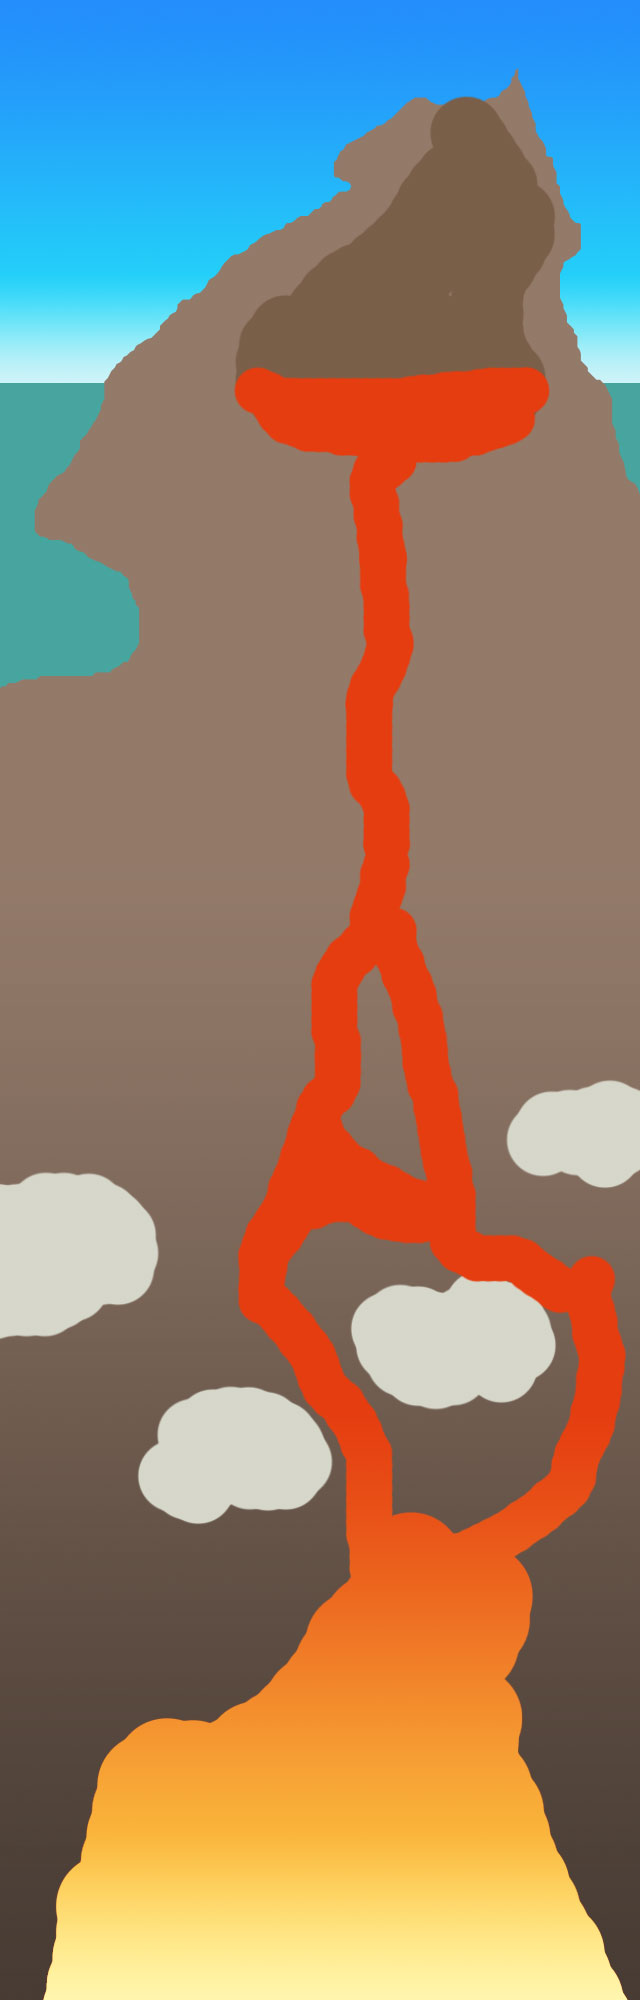
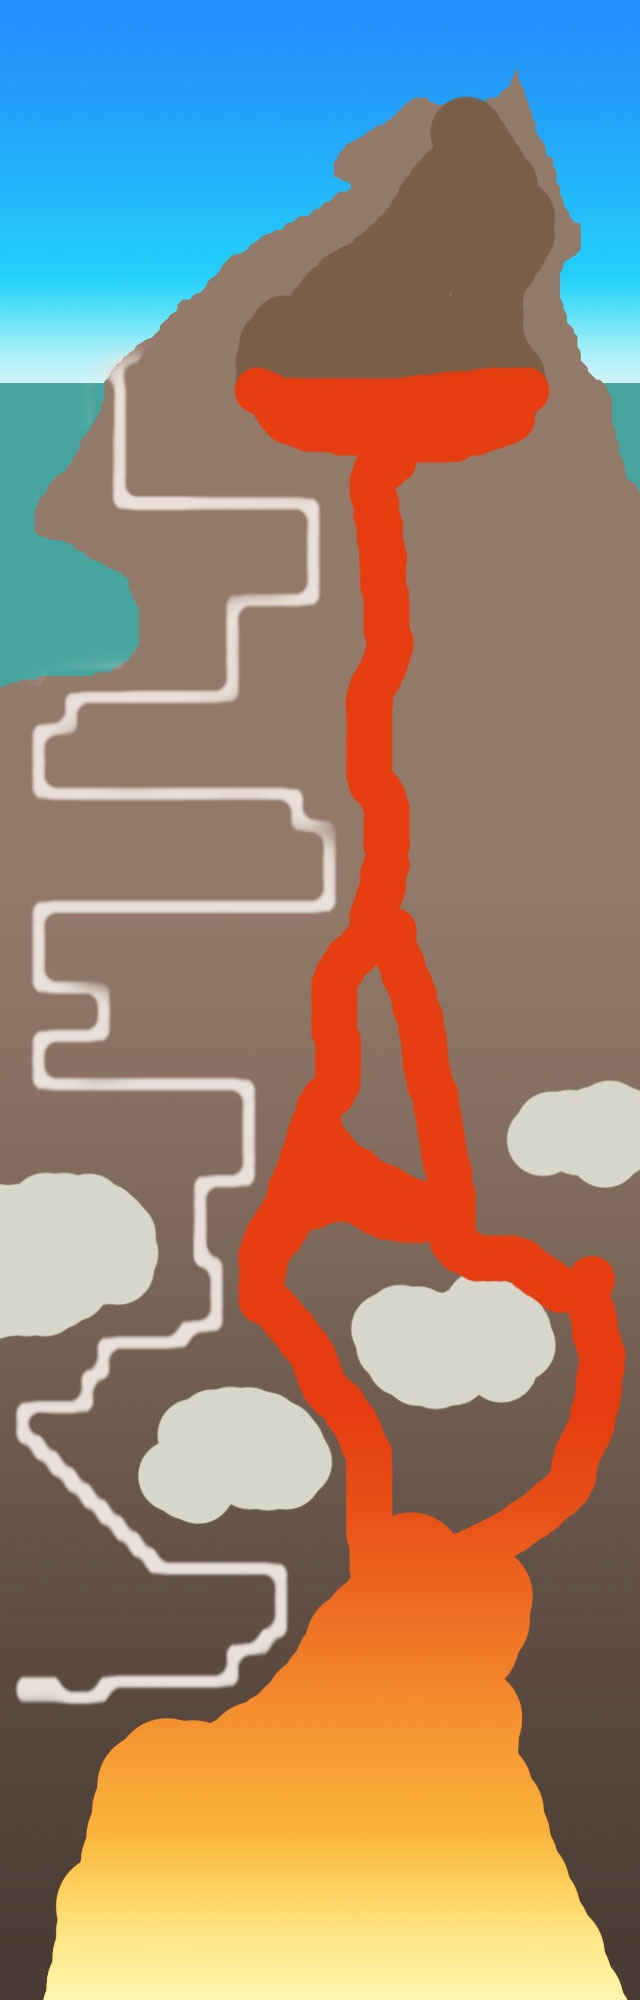
Hmm.. thinking about giving up on this one

diff --git a/ld25_villian/web/lair_game.dart b/ld25_villian/web/lair_game.dart
@@ -32,9 +32,12 @@ class LairGame {
   CanvasElement gameMapCanvas;
   ImageElement backgroundImg;
   ImageElement agentImg;
+  ImageElement conduitImg;
+  
   MiniMap minimap;
   
-  List<MapTile> worldMap; 
+  List<MapTile> worldMap;
+  List<Point> roomLocs;
   num nextAgentSpawn;
   
   // Mouse pos
@@ -58,7 +61,7 @@ class LairGame {
 //      context.fillRect();
 //      
       // Draw the background
-      context.drawImage(backgroundImg, 0, minimap.yval, 640, 400, 0, 0, 640, 400 );
+      context.drawImage(backgroundImg, 0, minimap.yval, 630, 400, 0, 0, 630, 400 );
       
       // draw map cursor
       //context.fillStyle = "rgba(255, 255, 0, 0.5)";
@@ -67,6 +70,7 @@ class LairGame {
                        ((mousePosMap.y*16)-minimap.yval)+1, 15, 15);
       
       // draw the map tiles
+      /*
       int lastTerrainType = -1;
       if ((worldMap!=null) && (worldMap.length>0))
       {
@@ -101,6 +105,7 @@ class LairGame {
             }
           }
       }
+   */
       
       // Draw the rooms
       for (Room room in rooms) {
@@ -124,25 +129,23 @@ class LairGame {
     query("#fps_counter").text = "${fpsAverage.round().toInt()} fps";
   }
   
+  void spawnAgent() {
+    print( "spawn agent...");
+    nextAgentSpawn = 2 + (rand.nextDouble() * 3.0);
+    
+    var agent = new Agent( agentImg, rand.nextDouble()*600, 20.0 );
+    agents.add( agent );      
+  }
+  
   void update( num dt)
-  {
-      // Spawn new agent?
-      if (agents.length < 30)
-      {
-          nextAgentSpawn -= dt;
-          if (nextAgentSpawn < 0.0)
-          {
-              print( "spawn agent...");
-              nextAgentSpawn = 2 + (rand.nextDouble() * 3.0);
-              
-              var agent = new Agent( agentImg, rand.nextDouble()*600, 20.0 );
-              agents.add( agent );
-          }
-      }
-      
+  {      
       // Update all agents
-      for (Agent agent in agents) {
-        agent.update(dt, worldMap );
+      final int numSteps = 5;
+      for (int i=0; i < numSteps; i++)
+      {
+        for (Agent agent in agents) {
+          agent.update(dt/numSteps, worldMap );
+        }
       }
   }
 
@@ -203,19 +206,11 @@ void startGame()
     rand = new Random();
     
     // Init agents
-    nextAgentSpawn = 0.0;
-    agents = new List<Agent>();
+     agents = new List<Agent>();
     
     // Load map
     buildMap();
-    
-    // load rooms
-    rooms = new List<Room>();
-    var room = new Room( 3, 2, "gamedata/tinylair.png");
-    room.x = 10;
-    room.y = 10;
-    rooms.add( room );
-    
+      
     // Load resources
     _preloads = new List<Future>();
     
@@ -225,10 +220,22 @@ void startGame()
     agentImg = new ImageElement( src:"gamedata/agent.png" );
     preloadImg( agentImg );       
     
+    conduitImg = new ImageElement( src:"gamedata/conduit.png");
+    preloadImg( conduitImg );
+    
     // Wait for all resources
     Futures.wait(_preloads).then((List values) {
       print ("all imgs loaded...");
       
+       // Hook up buttons
+      query("#btn_expand").on.click.add((_){
+        print("TODO: Expand base...");
+      });
+   
+      query("#btn_go").on.click.add((_){
+         spawnAgent();
+      });
+        
         // Start the game loop
         window.requestAnimationFrame(gameloop);      
     });
@@ -269,6 +276,8 @@ Future preloadImg( ImageElement img ) {
       ImageData imgData= context.getImageData( 0, 0, 40, 125 );
       print('attr image data ${imgData.width}, ${imgData.height}');
       
+      roomLocs = new List<Point>();
+      
       //var rand = new Random();
       worldMap = new List<MapTile>( 40*125 );
       for (int y=0; y < 125; y++) {      
@@ -282,7 +291,11 @@ Future preloadImg( ImageElement img ) {
           
          if ((r==0)&&(g==255)&&(b==255)) {
             // background/sky
-           tile.terrainType = TERRAIN_SKY;           
+           tile.terrainType = TERRAIN_SKY;
+         } else if ((r==0)&&(g==0)&&(b==255)) {
+           // special, also add to the list of room locs
+           tile.terrainType = TERRAIN_SKY;
+           roomLocs.add( new Point( x, y) );
          } else if ((r==255)&&(g==0)&&(b==0)) {
             tile.terrainType = TERRAIN_LAVA;
          } else if ((r==0)&&(g==255)&&(b==0)) {
@@ -298,11 +311,24 @@ Future preloadImg( ImageElement img ) {
           worldMap[ mapIndex( x, y) ] = tile;
         }        
       }
+    
+      // load rooms
+      resetRooms();
+      
       print("Map set up.");
       
       }); // onLoad
     
    }
+  
+  void resetRooms()
+  {
+    rooms = new List<Room>();
+    var room = new Room( 3, 2, "gamedata/tinylair.png");
+    room.x = roomLocs[0].x.toInt();
+    room.y = roomLocs[0].y.toInt();
+    rooms.add( room );    
+  }
     
    
    Point screenToMap( int x, int y) {

diff --git a/ld25_villian/web/ld25_villian.html b/ld25_villian/web/ld25_villian.html
@@ -18,11 +18,19 @@
     <h1>LD25 Evil Lair</h1>
     </div>
 
-<div class="span-24">
-	<div id="toolbar">
-	  <div class="button" id="btn_ducts">DUCT</div>
-	  <div class="button" id="btn_corridor">CORR</div>
-	  <div class="button" id="btn_water">H20</div>
+<div class="span-12">
+	  <div class="button"  id="agent0">???</div>
+	  <div class="button"  id="agent1">???</div>
+	  <div class="button"  id="agent2">???</div>	  
+	  <div class="button"  id="agent3">???</div>
+	  <div class="button"  id="agent4">???</div>	  	  
+	  </div>
+	  
+	<div class="span-12 last">
+		<div class="bigbutton"  id="btn_expand">Expand my base.</div>	  
+		<div class="bigbutton"  id="btn_go">Bring it on!</div>	  
+	</div>
+	  	  
 	</div>
   </div>
 
@@ -33,11 +41,11 @@
 	    </div>
 	</div>
     
-    <div class="span-17">
-      <canvas id="gamemap" width="640" height="400"></canvas>
+    <div class="span-16">
+      <canvas id="gamemap" width="630" height="400"></canvas>
     </div>
 
-	<div class="span-3 last">
+	<div class="span-4 last">
 		<div id="alerts" class="alertpanel">
 			<p> hello there this is some alert text</p>
 			<p> hello there this is some alert text</p>

diff --git a/ld25_villian/web/ld25_villian.css b/ld25_villian/web/ld25_villian.css
@@ -56,13 +56,13 @@ p {
  }
    
 #gamemap {
-  width: 640;
+  width: 630px;
   height: 400px;
   position: relative;
   border: 1px solid #ccc;
   background-color: #fff;
    display:inline;
-   margin-left: 15px;
+/*   margin-left: 15px;*/
 }
 
 .button {
@@ -73,7 +73,22 @@ p {
 	margin: 3px;
 	text-align: center;
 	vertical-align: middle;
+	font: 30px/50px "Helvetica Neue", Arial, Helvetica, Geneva, sans-serif;
 }
+
+.bigbutton {
+	width: 120px;
+	height: 57px;
+	display: inline-block;
+	border: 1px solid;
+	margin: 3px;
+	text-align: center;
+	vertical-align: middle;
+	background-color: green;
+	color: #f9f9a9;
+	line-height: 30px;
+}
+
 
 #text {
   font-size: 24pt;

diff --git a/ld25_villian/web/agent.dart b/ld25_villian/web/agent.dart
@@ -26,7 +26,7 @@ class Agent {
     if (tile.terrainType == TERRAIN_DIRT)
     {
       num oldX = x;
-      x = x + walkDir;
+      x = x + (walkDir*100*dt);
       
 //      print("walking x is ${x} walkdir ${walkDir}");
       
@@ -43,7 +43,7 @@ class Agent {
     } else if (tile.terrainType==TERRAIN_SKY)
     {
       // falling
-      y += 60.0*dt;
+      y += 200.0*dt;
     }
     
   }
